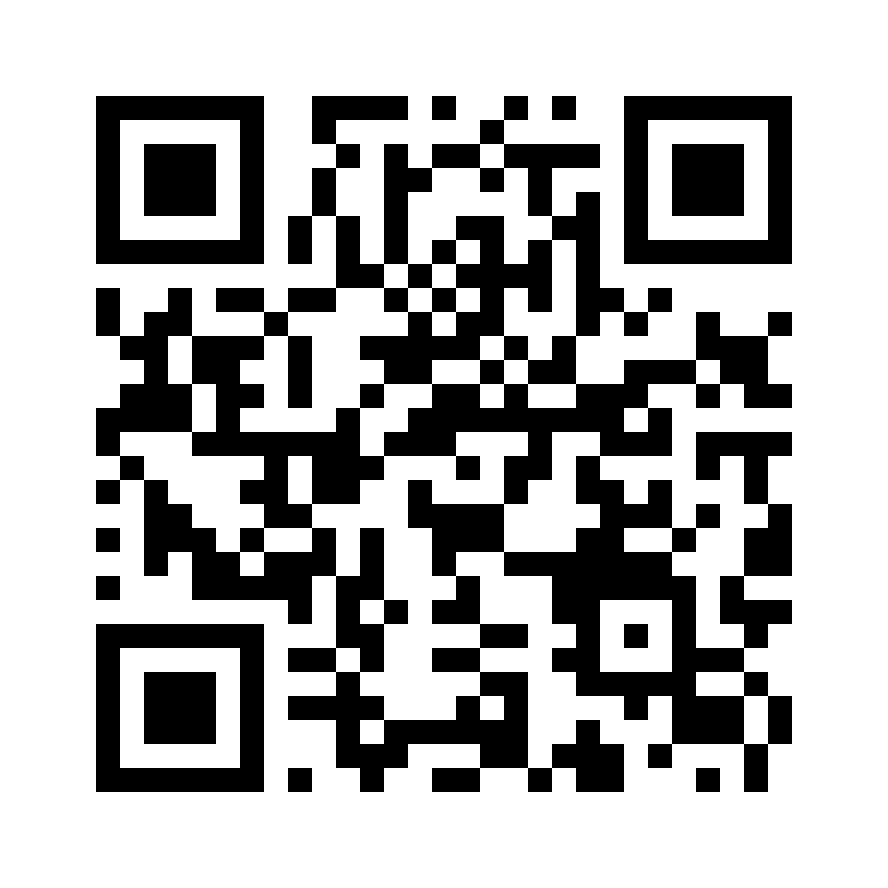
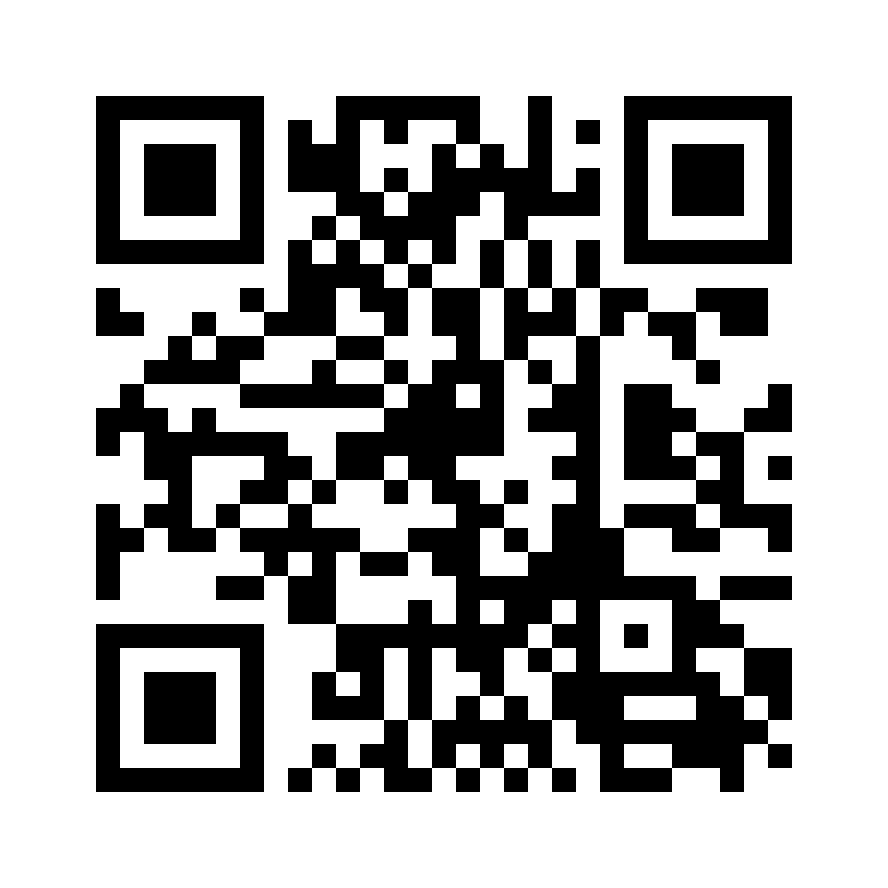
Move the visitor site to LightLink while preserving legacy links

Changed region(s): [[0.0912, 0.0912, 0.9122, 0.9122], [0.6993, 0.6081, 0.7601, 0.6689]]

diff --git a/tests/domain-redirect.test.js b/tests/domain-redirect.test.js
@@ -4,14 +4,16 @@ import { onRequest } from '../functions/_middleware.js';
 
 test('legacy links redirect to custom domain preserving path and query', async () => {
   for (const method of ['GET', 'HEAD']) {
-    const response = await onRequest({ request: new Request('https://plc-vlc.pages.dev/send?from=qr', { method }), next: () => { throw new Error('Unexpected asset request'); } });
+   for (const host of ['plc-vlc.pages.dev', 'hpv.selah.net.za']) {
+    const response = await onRequest({ request: new Request(`https://${host}/send?from=qr`, { method }), next: () => { throw new Error('Unexpected asset request'); } });
     assert.equal(response.status, 302);
-    assert.equal(response.headers.get('Location'), 'https://hpv.selah.net.za/send?from=qr');
+    assert.equal(response.headers.get('Location'), 'https://lightlink.selah.net.za/send?from=qr');
     assert.equal(response.headers.get('Cache-Control'), 'no-store');
+   }
   }
 });
 test('custom domain, previews and API submissions are not redirected', async () => {
-  for (const [url, method] of [['https://hpv.selah.net.za/send', 'GET'], ['https://preview.plc-vlc.pages.dev/', 'GET'], ['https://plc-vlc.pages.dev/api/game', 'POST']]) {
+  for (const [url, method] of [['https://lightlink.selah.net.za/send', 'GET'], ['https://preview.plc-vlc.pages.dev/', 'GET'], ['https://plc-vlc.pages.dev/api/game', 'POST'], ['https://hpv.selah.net.za/api/game', 'POST']]) {
     let nextCalled = false;
     const response = await onRequest({ request: new Request(url, { method }), next: () => { nextCalled = true; return new Response('unchanged'); } });
     assert.equal(nextCalled, true); assert.equal(await response.text(), 'unchanged');

diff --git a/public/visit.html b/public/visit.html
@@ -1,1 +1,1 @@
-<!doctype html><html lang="en"><meta charset="utf-8"><meta name="viewport" content="width=device-width,initial-scale=1"><title>Try Internet of Light</title><link rel="stylesheet" href="/visit.css"><main><p>INTERNET OF LIGHT · PLC × VLC</p><h1>Draw something.<br>Send it through light.</h1><p>Scan. Draw. Send. Watch it arrive on our receiver.</p><a href="/send"><img src="/assets/studio-qr.svg" alt="QR code for https://hpv.selah.net.za/send"></a><a href="https://hpv.selah.net.za/send">hpv.selah.net.za/send</a><small>University of the Witwatersrand · ELEN4012A</small><p class="downloads"><a href="/assets/studio-qr.png" download>Download QR · PNG</a> · <a href="/assets/studio-qr.svg" download>Download QR · SVG</a></p></main></html>
+<!doctype html><html lang="en"><meta charset="utf-8"><meta name="viewport" content="width=device-width,initial-scale=1"><title>Try Internet of Light</title><link rel="stylesheet" href="/visit.css"><main><p>INTERNET OF LIGHT · PLC × VLC</p><h1>Draw something.<br>Send it through light.</h1><p>Scan. Draw. Send. Watch it arrive on our receiver.</p><a href="/send"><img src="/assets/studio-qr.svg" alt="QR code for https://lightlink.selah.net.za/send"></a><a href="https://lightlink.selah.net.za/send">lightlink.selah.net.za/send</a><small>University of the Witwatersrand · ELEN4012A</small><p class="downloads"><a href="/assets/studio-qr.png" download>Download QR · PNG</a> · <a href="/assets/studio-qr.svg" download>Download QR · SVG</a></p></main></html>

diff --git a/tests/relay.test.js b/tests/relay.test.js
@@ -147,8 +147,8 @@ test('passcode enforcement can be restored without weakening device credentials'
   assert.equal((await room.fetch(request)).status, 401);
 });
 test('custom and original website origins are allowed but lookalikes are rejected', async () => {
-  const env = { ALLOWED_ORIGIN: 'https://plc-vlc.pages.dev', ALLOWED_ORIGINS: 'https://plc-vlc.pages.dev,https://hpv.selah.net.za', REQUIRE_PASSCODE: 'false', SESSION_SECRET: 's', AGENT_TOKEN: 'a', TURNSTILE_SECRET: 't' };
-  for (const origin of ['https://plc-vlc.pages.dev', 'https://hpv.selah.net.za']) {
+  const env = { ALLOWED_ORIGIN: 'https://plc-vlc.pages.dev', ALLOWED_ORIGINS: 'https://plc-vlc.pages.dev,https://hpv.selah.net.za,https://lightlink.selah.net.za', REQUIRE_PASSCODE: 'false', SESSION_SECRET: 's', AGENT_TOKEN: 'a', TURNSTILE_SECRET: 't' };
+  for (const origin of ['https://plc-vlc.pages.dev', 'https://hpv.selah.net.za', 'https://lightlink.selah.net.za']) {
     const response = await worker.fetch(new Request('https://relay/join', { method: 'OPTIONS', headers: { Origin: origin } }), env);
     assert.equal(response.status, 204); assert.equal(response.headers.get('Access-Control-Allow-Origin'), origin);
   }

diff --git a/functions/_middleware.js b/functions/_middleware.js
@@ -1,9 +1,9 @@
-const LEGACY_HOST = 'plc-vlc.pages.dev';
-const PRIMARY_ORIGIN = 'https://hpv.selah.net.za';
+const LEGACY_HOSTS = new Set(['plc-vlc.pages.dev', 'hpv.selah.net.za']);
+const PRIMARY_ORIGIN = 'https://lightlink.selah.net.za';
 
 export async function onRequest(context) {
   const url = new URL(context.request.url);
-  if (url.hostname === LEGACY_HOST && ['GET', 'HEAD'].includes(context.request.method)) {
+  if (LEGACY_HOSTS.has(url.hostname) && ['GET', 'HEAD'].includes(context.request.method)) {
     return new Response(null, {
       status: 302,
       headers: { Location: PRIMARY_ORIGIN + url.pathname + url.search, 'Cache-Control': 'no-store' },
